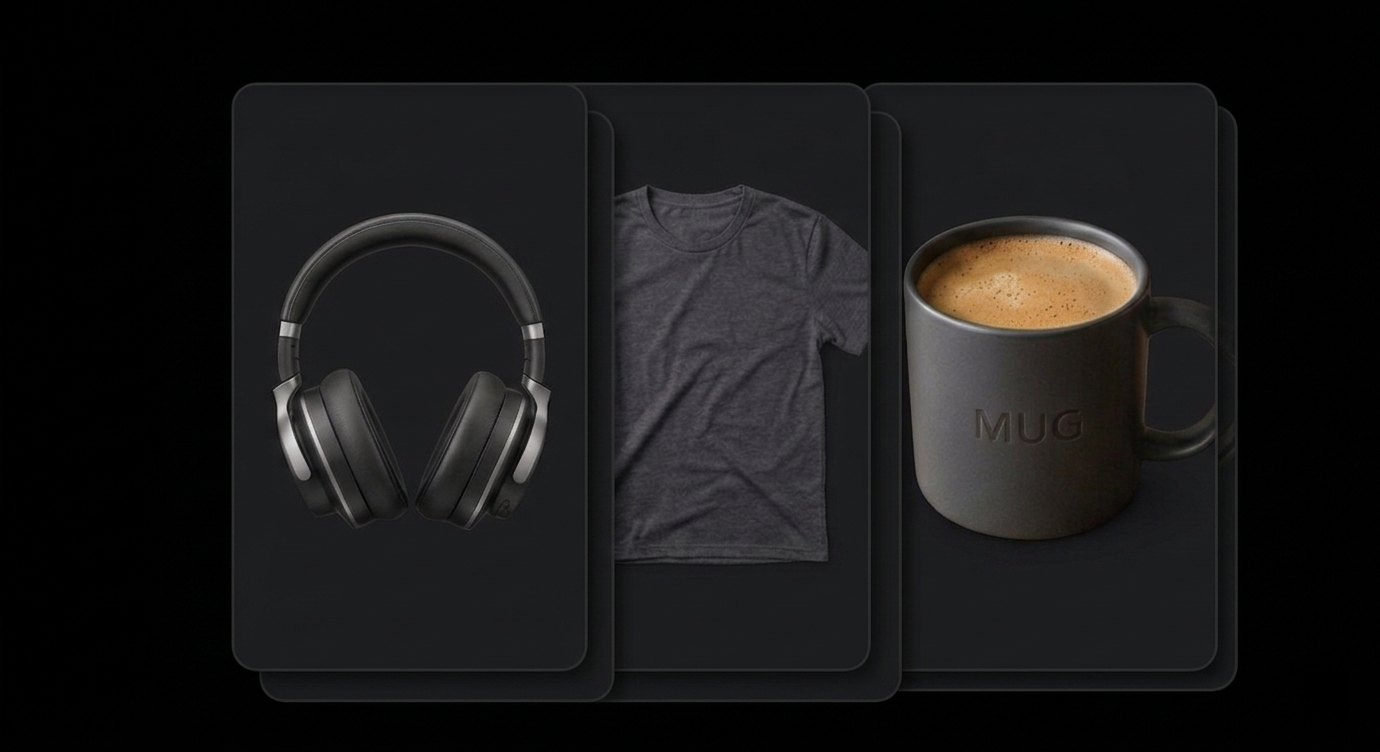
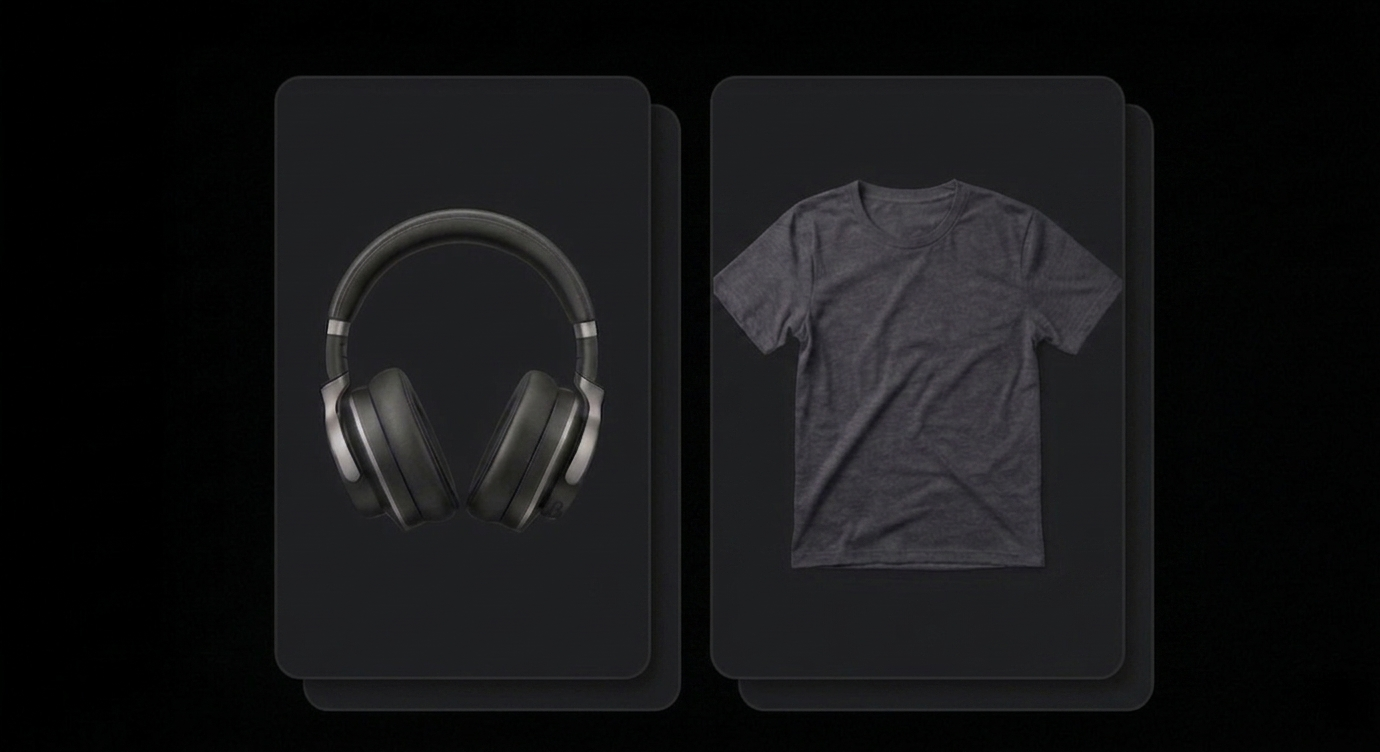
upda

Changed region(s): [[0.1558, 0.0918, 0.9036, 0.9481]]

diff --git a/src/Frontend/Styles/Store_Page.module.css b/src/Frontend/Styles/Store_Page.module.css
@@ -123,7 +123,7 @@ html,body{
 }
 
 .Our_products_title_modern {
-      font-family: "Barlow Semi Condensed", sans-serif;
+    font-family: "Barlow Semi Condensed", sans-serif;
 }
 
 .Products_list_modern{
@@ -667,6 +667,10 @@ html,body{
     display: block;
 }
 
+.Store_preview_Header_info button{
+    display: none;
+    cursor: pointer;
+}
 
 @media(max-width: 768px){
 
@@ -757,7 +761,26 @@ html,body{
         width: 100%;
         border-radius: 0;
         height: 300px;
-        aspect-ratio: 4 / 3;
+        aspect-ratio: unset;
+    }
+
+    .Store_Banner img {
+        width: 100%;
+        max-width: 100%;
+        object-position: center center;
+    }
+
+    .banner_img {
+        animation: none !important;
+        transform: none !important;
+        object-fit: cover;
+        object-position: center center !important;
+        aspect-ratio: unset;
+        margin: 0;
+        border-radius: 0;
+        height: 100%;
+        width: 100%;
+        max-width: 100%;
     }
 
     .Product_list{
@@ -943,15 +966,17 @@ html,body{
     }
 
     .Products_list_modern{
-        display: flex;
-        flex-direction: column;
+        display: grid;
+        grid-template-columns: repeat(2, minmax(0, 220px));
         gap: 0px;
-        width: 90%;
+        width: 100%;
         row-gap: 10px;
         justify-content:center;
         max-width: 90%;
         align-items: center;
         min-height: auto;
+        margin-top: 6px;
+        gap: 12px;
     }
 
     .Products_list_modern_preview{
@@ -961,7 +986,7 @@ html,body{
     }
 
     .product_card_modern{
-        width: 90%;
+        width: 98%;
         height: auto;
         display: flex;
         flex-direction: column;
@@ -990,4 +1015,148 @@ html,body{
         width: 80%;
     }
 
+    .Store_preview_Header_info img{
+        display: none;
+    }
+
+    .Store_preview_Header_info button{
+        display: flex;
+        align-items: center;
+        justify-content: center;
+        margin-top: -2px;
+        border: none;
+        background: transparent;
+    }
+
+}
+
+.links_backdrop{
+    position: fixed;
+    inset: 0;
+    background: rgba(0,0,0,0.35);
+    z-index: 9998;
+}
+
+.links_wrapper{
+    width: 72vw;
+    max-width: 280px;
+    height: 100vh;
+    display: flex;
+    flex-direction: column;
+    position: fixed;
+    top: 0;
+    left: 0;
+    z-index: 9999;
+    background: #fff;
+    box-shadow: 4px 0 24px rgba(0,0,0,0.12);
+    overflow: hidden;
+}
+
+.links_header{
+    width: 100%;
+    display: flex;
+    align-items: center;
+    justify-content: space-between;
+    padding: 16px 14px 14px 14px;
+    box-sizing: border-box;
+}
+
+.links_header_brand{
+    display: flex;
+    align-items: center;
+    gap: 8px;
+}
+
+.links_logo{
+    width: 30px;
+    height: 30px;
+    border-radius: 50%;
+    object-fit: cover;
+}
+
+.links_header h2{
+    font-size: 15px;
+    font-weight: 600;
+    margin: 0;
+    color: #111;
+}
+
+.links_close_btn{
+    background: #f2f2f2;
+    border: none;
+    border-radius: 50%;
+    width: 32px;
+    height: 32px;
+    display: flex;
+    align-items: center;
+    justify-content: center;
+    cursor: pointer;
+    color: #333;
+    flex-shrink: 0;
+}
+
+.links_divider{
+    width: 100%;
+    height: 1px;
+    background: #ebebeb;
+}
+
+.links_nav{
+    flex: 1;
+    padding: 18px 14px 0;
+    box-sizing: border-box;
+    overflow-y: auto;
+}
+
+.links_nav_label{
+    font-size: 10px;
+    font-weight: 600;
+    letter-spacing: 0.08em;
+    text-transform: uppercase;
+    color: #999;
+    margin: 0 0 10px 4px;
+}
+
+.links_list{
+    list-style: none;
+    padding: 0;
+    margin: 0;
+    display: flex;
+    flex-direction: column;
+    gap: 2px;
+}
+
+.links_item{
+    font-size: 14px;
+    font-weight: 500;
+    color: #111;
+    padding: 11px 12px;
+    border-radius: 8px;
+    cursor: pointer;
+    transition: background 0.15s;
+}
+
+.links_item:hover{
+    background: #f5f5f5;
+}
+
+.links_footer{
+    padding: 16px 14px;
+    border-top: 1px solid #ebebeb;
+    box-sizing: border-box;
+}
+
+.links_whatsapp{
+    display: flex;
+    align-items: center;
+    justify-content: center;
+    width: 100%;
+    padding: 10px;
+    background: #f0fdf4;
+    color: #16a34a;
+    border-radius: 8px;
+    font-size: 13px;
+    font-weight: 600;
+    text-decoration: none;
+    box-sizing: border-box;
 }

diff --git a/src/Frontend/Pages/Store_Page.jsx b/src/Frontend/Pages/Store_Page.jsx
@@ -11,11 +11,15 @@ export function Store_Header({store,page,setPage,pages,sidebar_active,setSidebar
 
   const {slug,token} = useParams();
   const navigate = useNavigate()
+  const [header_links,setLinks] = useState(false)
 
-  return(
+return (
+  <>
     <div className={`${styles.Store_preview_Header} ${modernTheme ? styles.Store_preview_Header_modern : ""}`}>
       <div className={styles.Store_preview_Header_info}>
-        <img src={store?.logo_url} alt="Store logo" style={{width:"35px",height:"35px"}}/> <h3>{store?.name}</h3>
+        <img src={store?.logo_url} alt="Store logo" style={{width:"35px",height:"35px"}}/>
+        <button onClick={() => setLinks(true)}><Menu size={18}/></button>
+        <h3>{store?.name}</h3>
       </div>
 
       <div className={styles.store_links}>
@@ -28,17 +32,60 @@ export function Store_Header({store,page,setPage,pages,sidebar_active,setSidebar
         </ul>
       </div>
 
-      
-       <div className={styles.header_btn}>
-         <a href={`https://wa.me/91${store?.whatsapp_number}`} target="_blank" rel="noreferrer">
-           <button>Support</button>
-         </a>
-       </div>
+      <div className={styles.header_btn}>
+        <a href={`https://wa.me/91${store?.whatsapp_number}`} target="_blank" rel="noreferrer">
+          <button>Support</button>
+        </a>
+      </div>
     </div>
 
+    {header_links && (
+      <>
+        <div className={styles.links_backdrop} onClick={() => setLinks(false)}/>
+        <div className={styles.links_wrapper}>
+          <div className={styles.links_header}>
+            <div className={styles.links_header_brand}>
+              <img src={store?.logo_url} alt="logo" className={styles.links_logo}/>
+              <h2>{store?.name}</h2>
+            </div>
+            <button className={styles.links_close_btn} onClick={() => setLinks(false)}>
+              <X size={18}/>
+            </button>
+          </div>
 
+          <div className={styles.links_divider}/>
 
-  )
+          <nav className={styles.links_nav}>
+            <p className={styles.links_nav_label}>Pages</p>
+            <ul className={styles.links_list}>
+              {pages?.map((p) => (
+                <li key={p?.slug} className={styles.links_item} onClick={() => {
+                  navigate(`/page/${token}/${p?.slug}`)
+                  setLinks(false)
+                }}>
+                  {p?.title}
+                </li>
+              ))}
+
+              {pages.length === 0 && <h2>no links</h2>}
+            </ul>
+          </nav>
+
+          <div className={styles.links_footer}>
+            <a
+              href={`https://wa.me/91${store?.whatsapp_number}`}
+              target="_blank"
+              rel="noreferrer"
+              className={styles.links_whatsapp}
+            >
+              Chat on WhatsApp
+            </a>
+          </div>
+        </div>
+      </>
+    )}
+  </>
+)
 
 }
 
@@ -169,7 +216,7 @@ export function Store_Page({setPage,store: storeProp,product_details,isPreview,s
       </div>
     )}  
       <div className={styles.Featured_products}/>
-      <h3 id="products" className={styles.Our_products_title}>Our Products</h3>
+      <h3 id="products" className={styles.Our_products_title}>Featured Products</h3>
 
       {products.length === 0 && (
         <>
@@ -254,16 +301,16 @@ return(
 <div className={styles.Store_Banner} style={{fontFamily:"DM serif, serif",fontWeight:"200"}}>
         <img src={store?.banner_url} alt="Store Banner" className={styles.banner_img}/>
         <div className={styles.banner_overlay}>
-         <h1>{store?.name}</h1>
-         <p>{store?.description || "Shop our latest collection"}</p>
-           <button onClick={() => document.querySelector('#products').scrollIntoView({behavior:'smooth'})}>
+         <h1 style={{fontFamily: "Barlow Semi Condensed, sans-serif"}}>{store?.name}</h1>
+         <p style={{fontFamily: "Barlow Semi Condensed, sans-serif"}}>{store?.description || "Shop our latest collection"}</p>
+           <button style={{fontFamily: "Barlow Semi Condensed, sans-serif"}} onClick={() => document.querySelector('#products').scrollIntoView({behavior:'smooth'})}>
       Shop Now
     </button>
           </div>
       </div>
     )}  
       <div className={styles.Featured_products}/>
-      <h3 id="products" className={ ` ${styles.Our_products_title} ${modernTheme ? styles.Our_products_title_modern : ""}`}>Our Products</h3>
+      <h3 id="products" className={ ` ${styles.Our_products_title} ${modernTheme ? styles.Our_products_title_modern : ""}`}>Featured Products</h3>
 
       {products.length === 0 && (
         <>

diff --git a/src/Frontend/Styles/Sidebar.module.css b/src/Frontend/Styles/Sidebar.module.css
@@ -334,7 +334,7 @@ box-shadow: rgba(0, 0, 0, 0.02) 0px 1px 3px 0px, rgba(27, 31, 35, 0.15) 0px 0px 
 }
 
 .user_info span{
-    font-size: 16px;
+    font-size: 12.8px;
     width: 20px;
     text-overflow: ellipsis;
     height: auto;